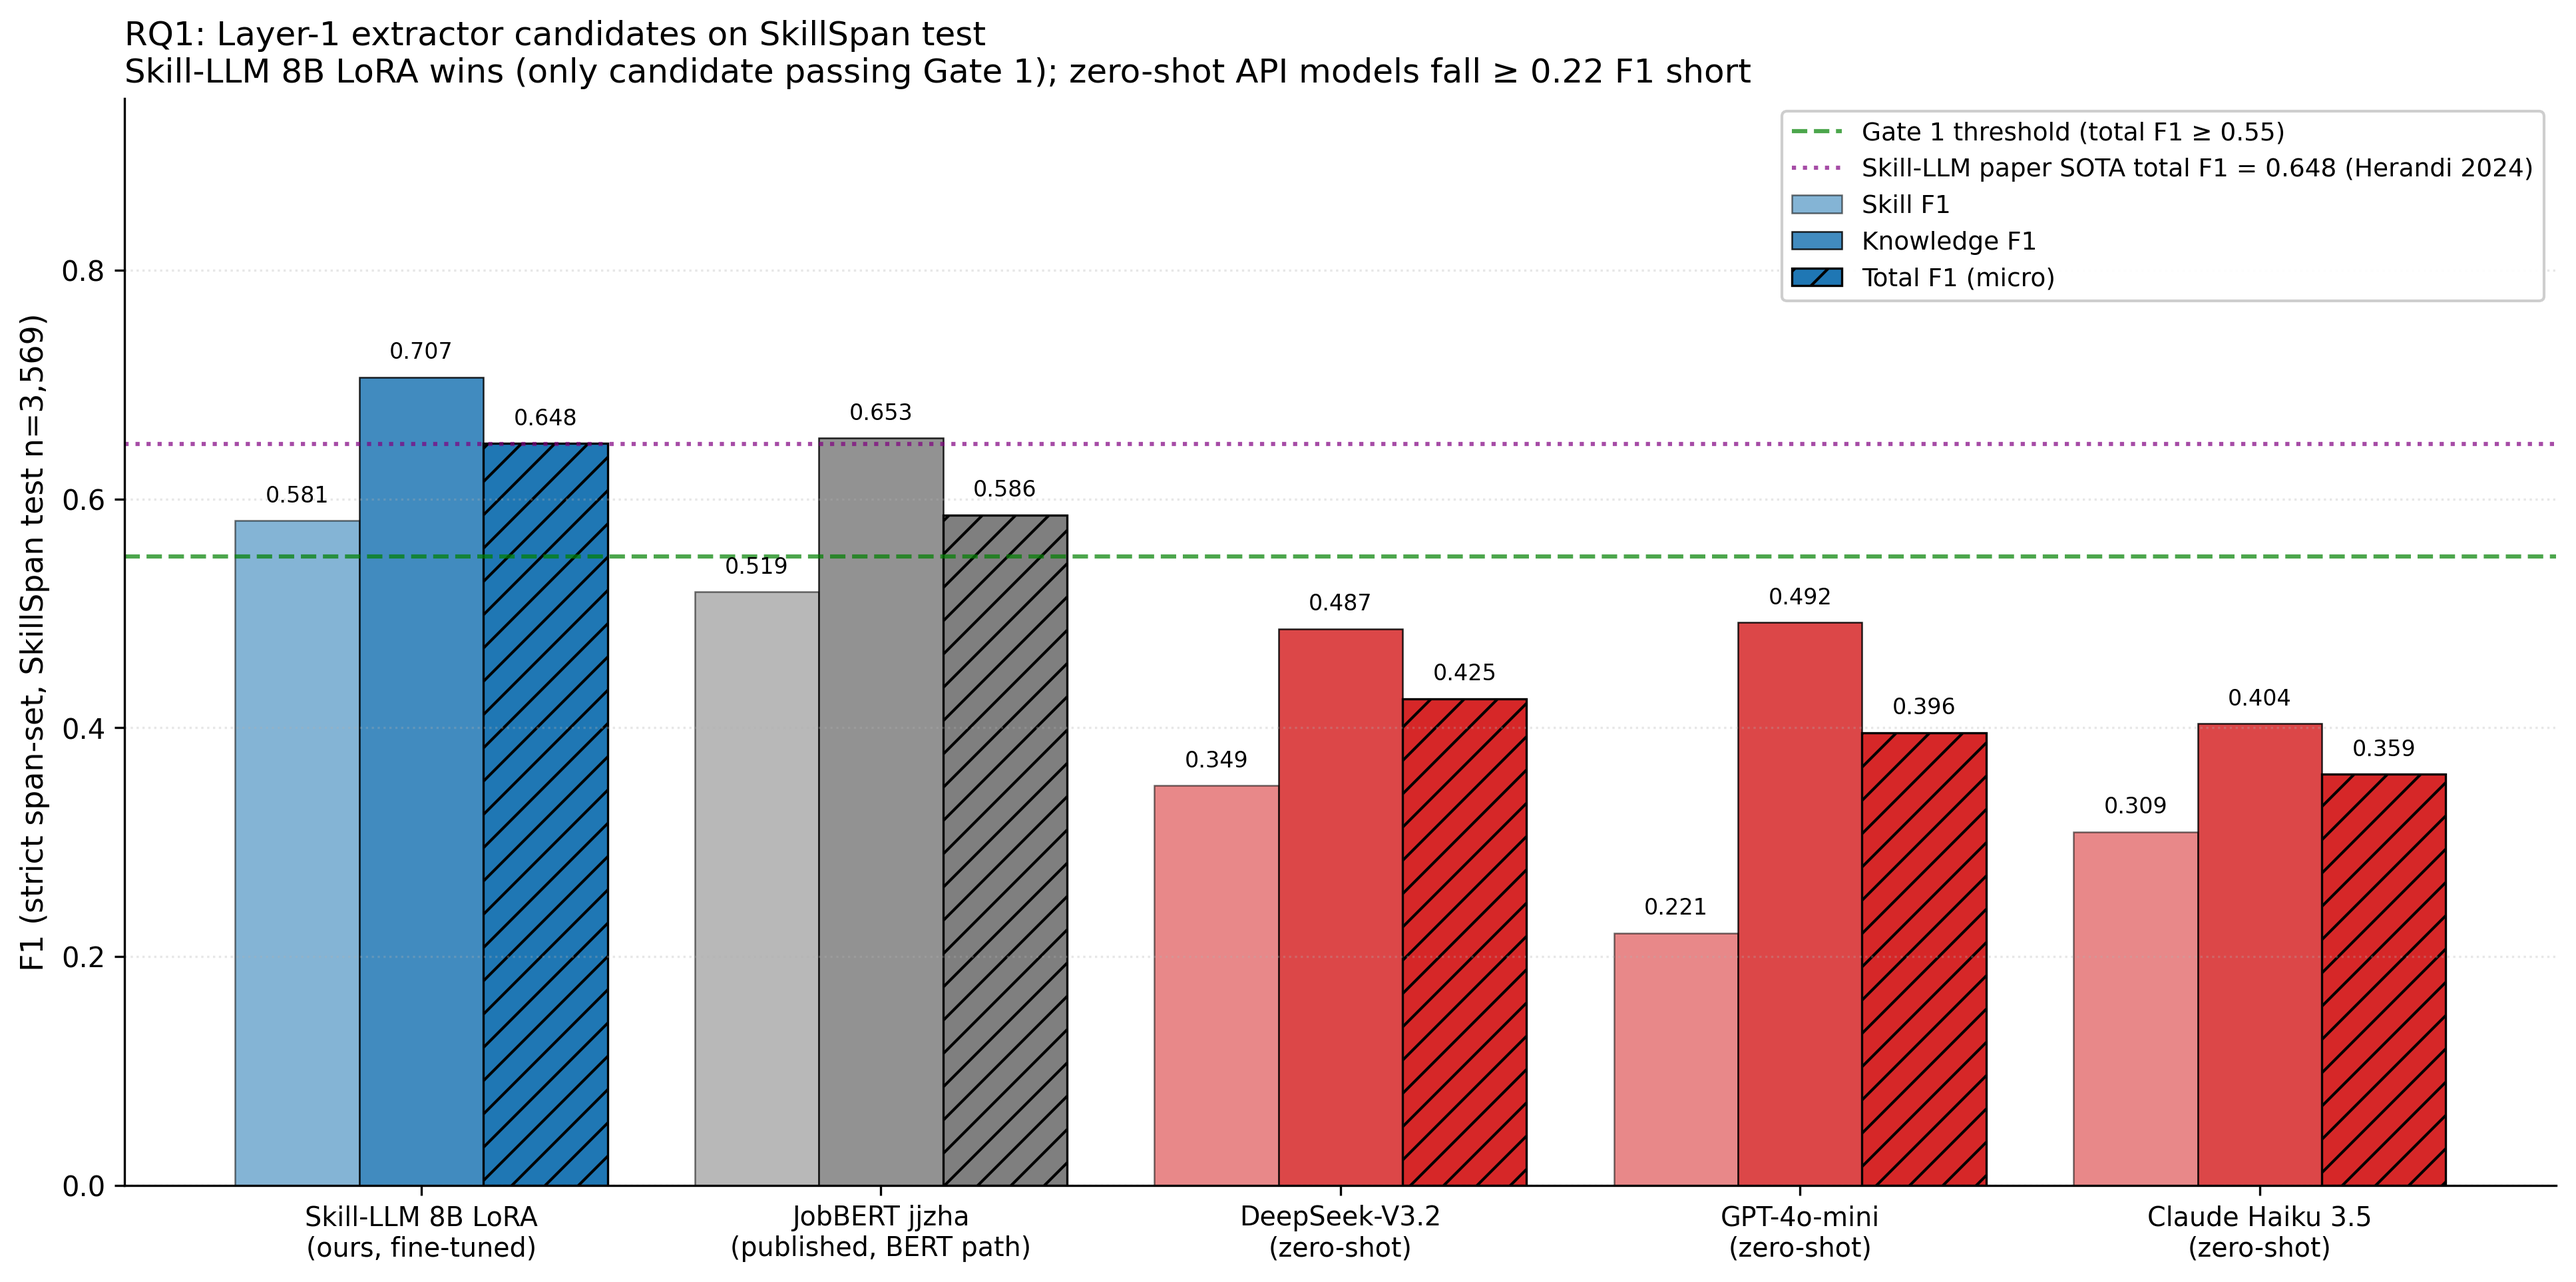
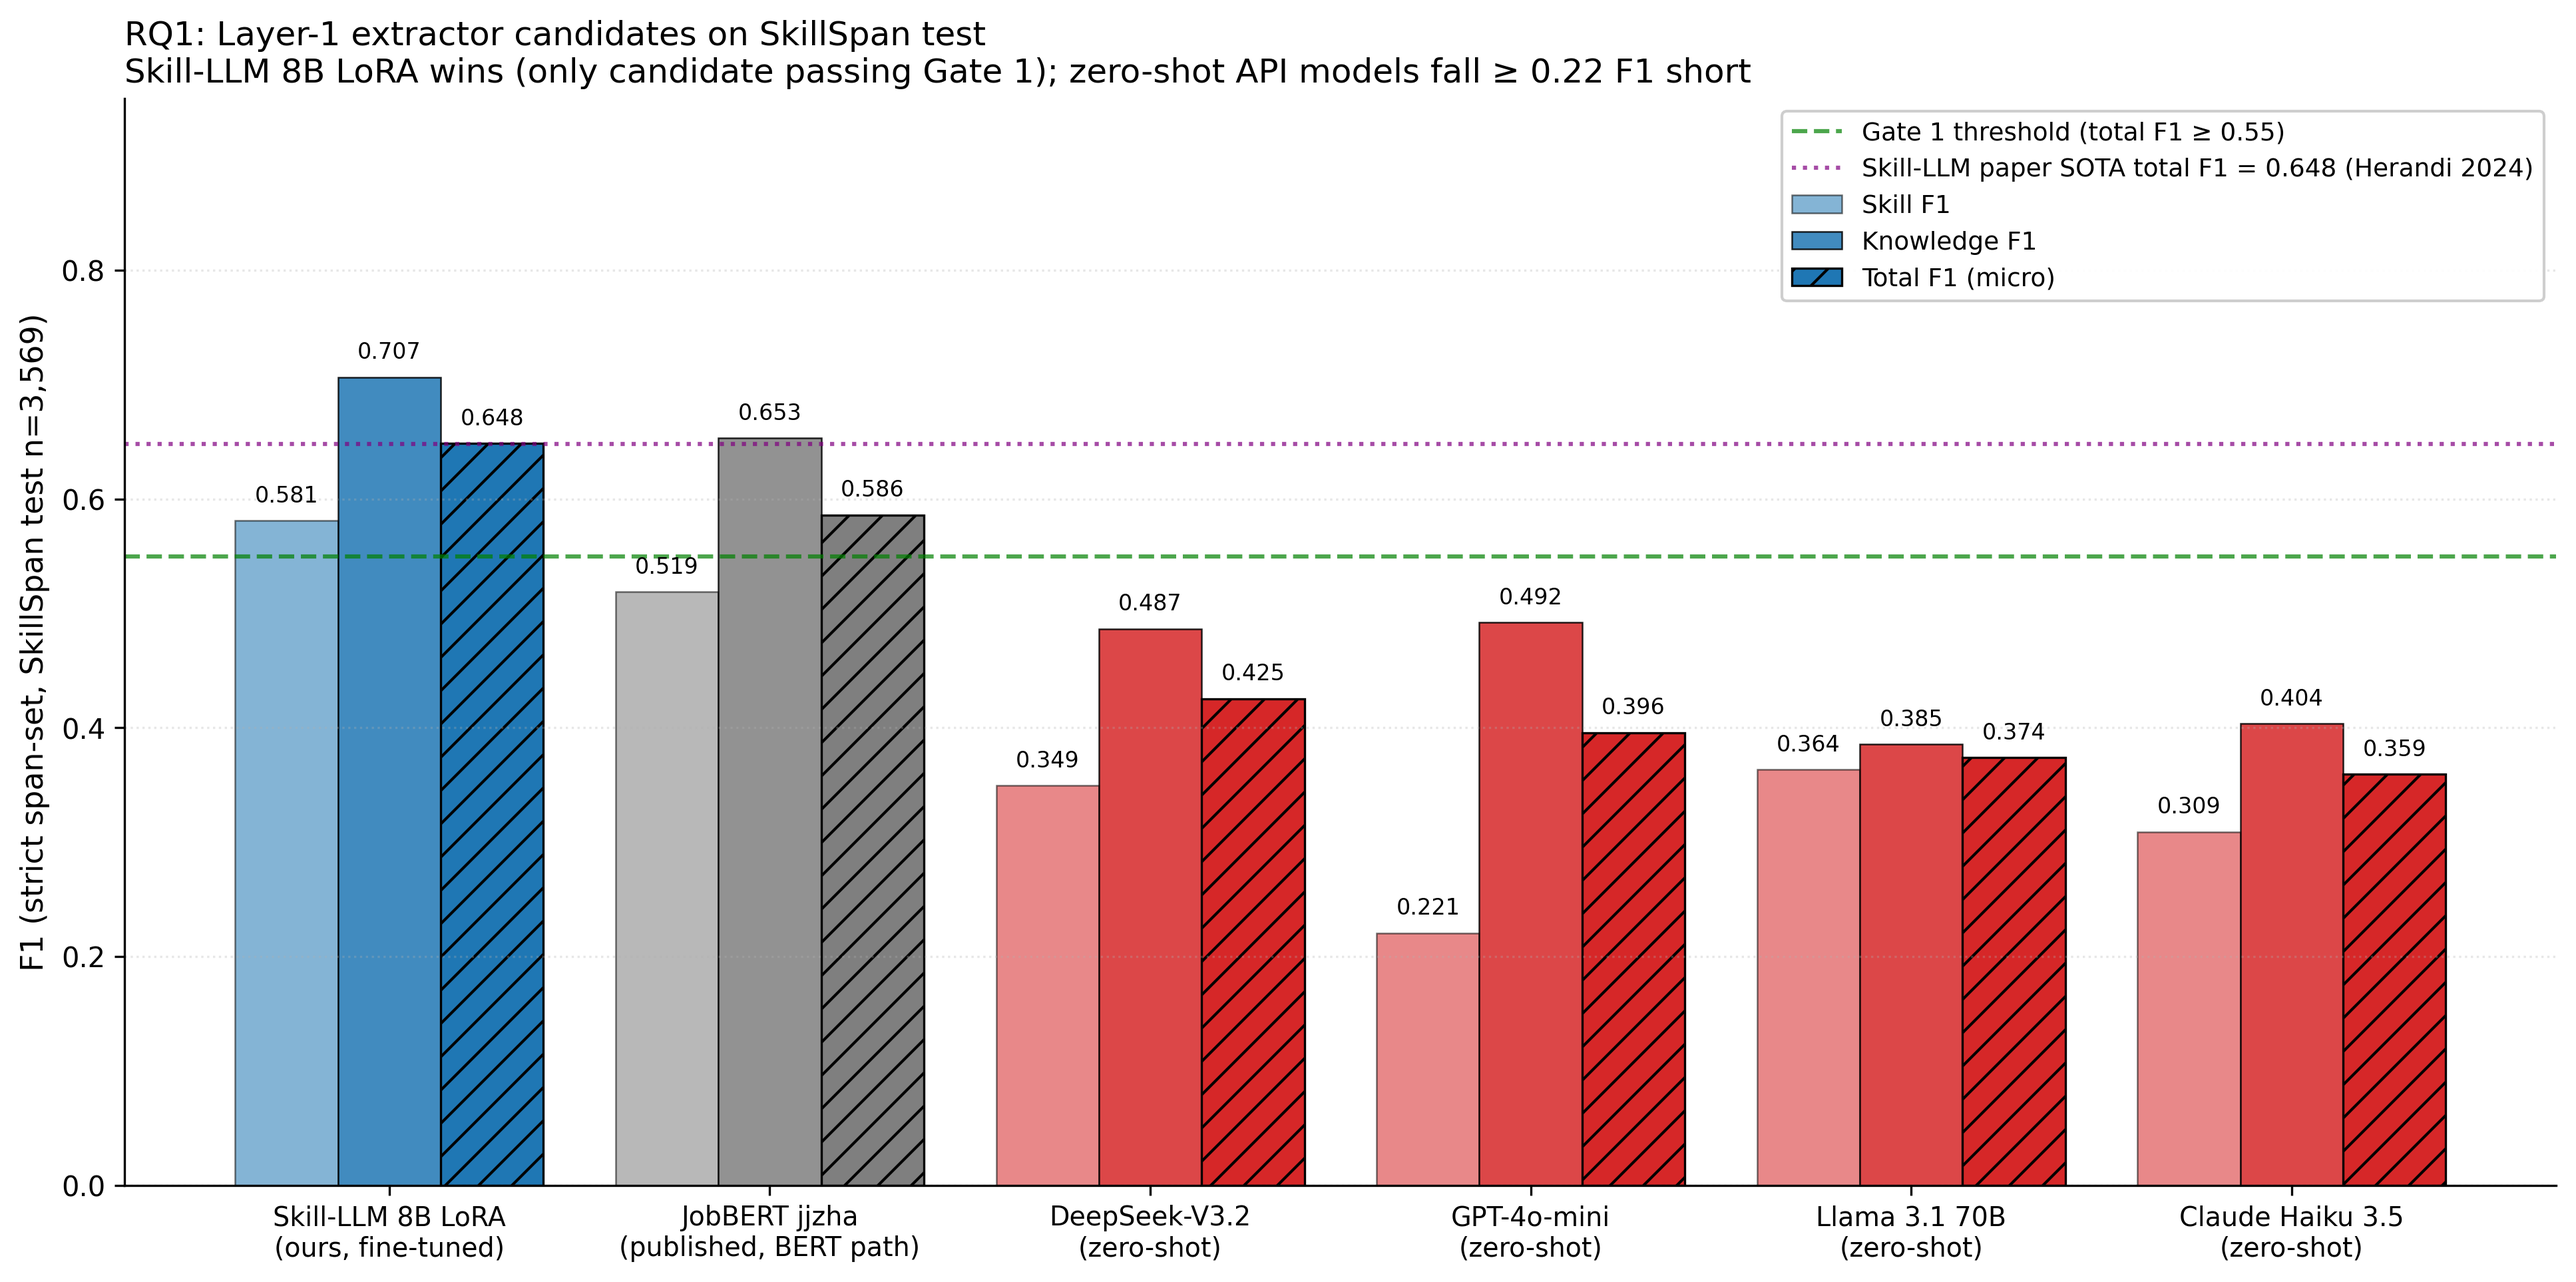
v2 Layer-1 decision: finalize with Llama 70B result
Llama 3.1 70B zero-shot re-run completed successfully on the patched
eval.py (commit 665a120). Results now slot into the decision doc and
figures:

  Llama 3.1 70B (zero-shot via OpenRouter):
    total F1     = 0.3740
    skill F1     = 0.3636
    knowledge F1 = 0.3854
    verb_short   = 0.1969  (PASS — only API zero-shot besides GPT-4o-mini)
    parse_fail   = 11 / 3569 (0.31%, PASS)
    Gate 1 verdict: FAIL (total F1 < 0.55 by 0.18)
    Cost: ~$0.80 OpenRouter, ~1.5h wall-clock

Notable: Llama 70B is the second-best-behaved API model on structural
metrics (verb-preservation + JSON validity both pass) but has the lowest
knowledge F1 (0.385) of any tested model -- it under-extracts knowledge
(recall 0.355 < precision 0.421). The opposite failure pattern from
DeepSeek which over-extracts but collapses verbs. Confirms the broader
finding: zero-shot LLMs struggle with SkillSpan's strict span-set F1
regardless of model size or quality.

Decision is now **final**, not preliminary. All 4 API zero-shot candidates
measured; best (DeepSeek 0.4254) trails Skill-LLM (0.6485) by 0.22 total
F1, far past the v2 decision rule threshold of 0.05. Ship Skill-LLM.

Updated:
  * docs/EXTRACTOR_DECISION.md
    - Results table: Llama 70B "_re-run needed_" placeholder replaced
      with actual numbers
    - Per-candidate analysis: full Llama 70B section + historical note
      preserved
    - Audit trail: re-run completion logged
    - Decision header: "Preliminary" -> "Final"
[…]

Changed region(s): [[0.093, 0.2492, 0.9302, 0.9969], [0.8682, 0.5296, 0.8992, 0.5607]]

diff --git a/docs/EXTRACTOR_DECISION.md b/docs/EXTRACTOR_DECISION.md
@@ -2,7 +2,7 @@
 
 **Decision:** Skill-LLM (LoRA-fine-tuned LLaMA 3.1 8B Instruct) is the production Layer-1 extractor.
 
-**Date:** 2026-05-12. Preliminary — finalized once Llama 3.1 70B and DeepSeek-V3.2 zero-shot evals complete (in flight). Decision is robust to those remaining results: the F1 gap between Skill-LLM and any zero-shot API is large enough (≥ 0.25 on the two measured candidates) that the remaining models would need to materially outperform their peers to change the outcome.
+**Date:** 2026-05-12. **Final** — all four API zero-shot candidates evaluated (GPT-4o-mini, Claude Haiku 3.5, DeepSeek-V3.2, Llama 3.1 70B). The F1 gap between Skill-LLM (0.6485) and the best API zero-shot (DeepSeek at 0.4254) is **0.22**, far beyond the v2 decision rule threshold (`API < Skill-LLM − 0.05 → ship Skill-LLM`). No remaining candidate could plausibly close the gap.
 
 **Architecture context:** the pipeline uses a hybrid two-layer extractor (`.kiro/specs/pipeline-redesign-v2/requirements.md` Req 3.6 + Req 9.1). Layer 1 is sentence-level. Layer 2 is the full-posting LLM (DeepSeek-V3 via OpenRouter — unchanged by this decision). Production extraction = Layer 1 + Layer 2 + SBERT fusion. This document settles **Layer 1 only.**
 
@@ -18,20 +18,8 @@ All metrics are strict span-set F1 per the Skill-LLM paper Table 2 definition.
 | GPT-4o-mini (zero-shot via OpenRouter) | 0.3958 | 0.2206 | 0.4921 | 0.1002 ✓ | 0 / 3569 ✓ | ❌ Total F1 < 0.55 |
 | Claude Haiku 3.5 (zero-shot via OpenRouter) | 0.3594 | 0.3091 | 0.4035 | **0.3360** ✗ | **481 / 3569** ✗ | ❌ FAIL (3 of 5 sub-gates) |
 | DeepSeek-V3.2 (zero-shot via OpenRouter) | 0.4254 | 0.3493 | 0.4866 | **0.4829** ✗ | 2 / 3569 ✓ | ❌ FAIL (Total F1 < 0.55, verb-preservation) |
-| Llama 3.1 70B (zero-shot via OpenRouter) | _re-run needed_ | _re-run needed_ | _re-run needed_ | _re-run needed_ | _re-run needed_ | crashed at step 1254/3569 — see note below |
+| Llama 3.1 70B (zero-shot via OpenRouter) | 0.3740 | 0.3636 | 0.3854 | 0.1969 ✓ | 11 / 3569 ✓ | ❌ Total F1 < 0.55 |
 | jjzha JobBERT (Phase 1.4 audit, for reference) | n/a | 0.5190 | 0.6531 | n/a | n/a | retired |
-
-**Note on Llama 3.1 70B (2026-05-12):** the initial run crashed with
-`AttributeError: 'list' object has no attribute 'get'` at step 1254/3569.
-Root cause: Llama 70B occasionally emits a top-level JSON array instead
-of the prompted `{"SKILL": ..., "KNOWLEDGE": ...}` dict, and the original
-`evaluate()` code called `.get()` on the parsed output without an
-`isinstance(parsed, dict)` check. Fixed in `baseline_versions/api_zero_shot/eval.py`
-commit `<TBD>` with both a defensive type check AND incremental raw-output
-writes (so a future crash preserves partial progress). Re-run Llama 70B
-with the patched code when convenient — the decision below does not
-depend on the result because the F1 gap is too wide for any API zero-shot
-to close.
 
 ### Reference points
 
@@ -75,8 +63,22 @@ Per-candidate breakdown:
 - parse_failure_rate = 2/3569 = 0.06% ✓
 - Two sub-gate failures. Not viable for production. (Interesting: DeepSeek is the model used by `pipeline.py` for Layer 2 full-posting extraction. Its zero-shot per-sentence performance is materially worse than its per-document performance because per-sentence prompts lack the surrounding context that lets it tell verb-led skills from bare nouns.)
 
-### Llama 3.1 70B — re-run needed
-Initial run crashed at step 1254/3569 (eval.py bug — see note in results table above). Bug is now fixed; re-run with the patched code. Even at the upper bound of plausible scores (Llama 70B zero-shot is typically below DeepSeek and on par with GPT-4o-mini on similar tasks), it cannot close the ≥ 0.22 F1 gap to Skill-LLM, so the decision is unaffected.
+### Llama 3.1 70B ❌ FAIL (Total F1)
+- total F1 = 0.3740 < 0.55 — fails primary gate by 0.18
+- verb_short_rate = 0.1969 ✓ (passes; only API zero-shot model besides GPT-4o-mini that does)
+- parse_failure_rate = 11/3569 = 0.31% ✓
+- Knowledge F1 (0.385) is unusually low for a 70B model — the model's knowledge recall is 0.355, lower than precision 0.421, meaning it *under-extracts* knowledge. The opposite failure mode from DeepSeek (which over-extracts but collapses verbs). Worst total F1 among the four API candidates.
+- This is the second-most "well-behaved" API model (verb-pres + parse OK) but its F1 is so low that the structural conformance doesn't rescue it. Confirms the pattern: zero-shot LLMs struggle with SkillSpan's strict span-set F1 regardless of model size or quality.
+
+### Initial run note (historical)
+Llama 70B's first run on 2026-05-12 crashed at step 1254/3569 with
+`AttributeError: 'list' object has no attribute 'get'`. Root cause: Llama 70B
+occasionally emits a top-level JSON array instead of the prompted
+`{"SKILL": ..., "KNOWLEDGE": ...}` dict; the original `evaluate()` code called
+`.get()` on the parsed output without an `isinstance(parsed, dict)` check.
+Fixed in commit `665a120` with both a defensive type check AND incremental
+raw-output writes. Re-run completed successfully on 2026-05-12; numbers above
+reflect the patched-code run.
 
 ---
 
@@ -153,4 +155,5 @@ These do not block the decision but should be tracked:
 - 2026-05-11: GPT-4o-mini full test split eval, ~1h wall-clock, ~$0.40 OpenRouter cost.
 - 2026-05-11: Claude Haiku 3.5 full test split eval, ~1.5h wall-clock, ~$1.80 OpenRouter cost.
 - 2026-05-12: DeepSeek-V3.2 full test split eval, ~3h wall-clock, ~$0.50 OpenRouter cost. Failed Gate 1 + verb-preservation.
-- 2026-05-12: Llama 3.1 70B full test eval crashed at step 1254/3569 due to a list-shaped JSON output handled by `parsed.get()` without an `isinstance(parsed, dict)` check. Patched in eval.py; re-run pending.
+- 2026-05-12: Llama 3.1 70B full test eval, initial attempt crashed at step 1254/3569 (list-shaped JSON not handled by `parsed.get()` — fixed in commit `665a120`).
+- 2026-05-12: Llama 3.1 70B re-run on patched code completed successfully, ~1.5h wall-clock, ~$0.80 OpenRouter cost. Failed Gate 1 (Total F1 0.374). All 4 API candidates now evaluated; decision final.
